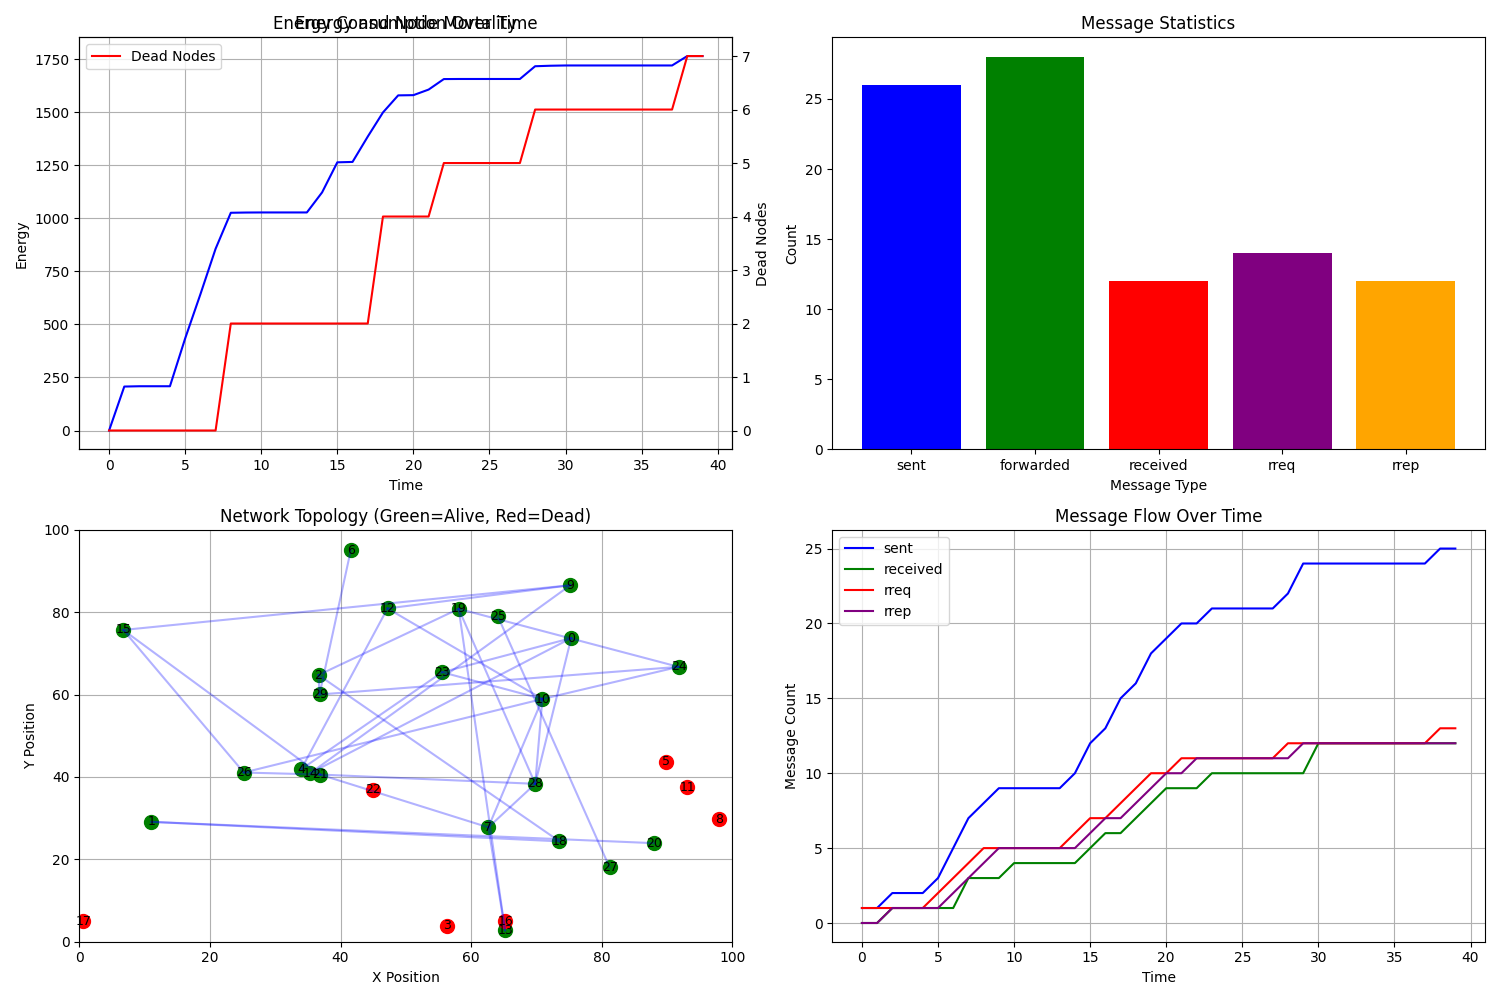
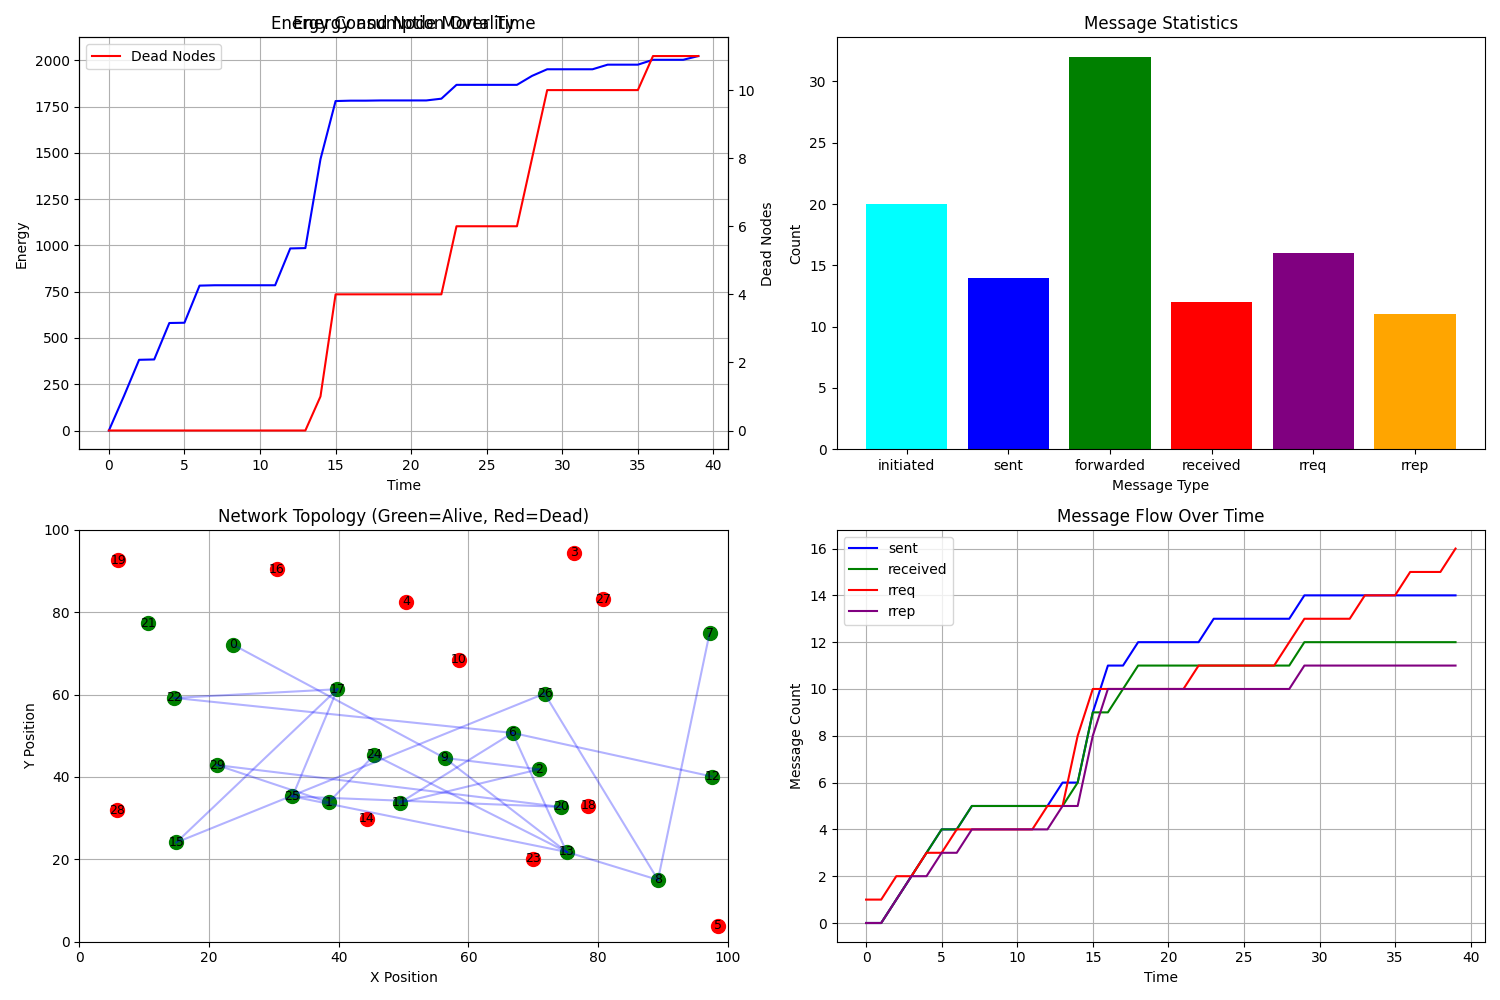
Implémentation TTL + Continué commentaires

diff --git a/Codes/Avec Métriques/aodv_test_script.py b/Codes/Avec Métriques/aodv_test_script.py
@@ -25,7 +25,7 @@ class Node:
         self.id = id
         self.pos = pos
         self.battery = initial_battery
-        self.routing_table = {}
+        self.routing_table = {} # dest : {next_hop,seq_num,weight,expiry}
         self.seq_num = 0
         self.pending = simpy.Store(env)
         self.max_dist = max_dist
@@ -34,7 +34,6 @@ class Node:
         self.seen = set()
         self.pending_rreqs = {}
         self.to_be_sent = defaultdict(list)
-        # print(f"Node {id} created at {pos} with battery {initial_battery}")
         self.env.process(self.process_messages())
 
     def process_messages(self):
@@ -63,7 +62,7 @@ class Node:
             src_id=self.id,
             src_seq=self.seq_num,
             dest_id=dest_id,
-            dest_seq=self.routing_table.get(dest_id, (None, 0, 0))[1],
+            dest_seq=self.routing_table.get(dest_id, (None, 0, 0, 0))[1],
             prev_hop=self.id,
             weight=0
         )
@@ -149,10 +148,10 @@ class Node:
         self.env.process(self.network.unicast_rrep(self, rrep))
 
     def update_route(self, dest, next_hop, seq_num, weight):
-        current = self.routing_table.get(dest, (None, -1, float('inf')))
+        current = self.routing_table.get(dest, (None, -1, float('inf'), 0))
         
         if (seq_num > current[1]) or (seq_num == current[1] and weight < current[2]): #si la route est plus fraiche ou aussi fraiche avec un poids moindre
-            self.routing_table[dest] = (next_hop, seq_num, weight)
+            self.routing_table[dest] = (next_hop, seq_num, weight, self.env.now + self.network.ttl)
 
     def collect_rreps(self, key):
         yield self.env.timeout(1)
@@ -163,16 +162,12 @@ class Node:
             self.send_rrep(best_rreq) #on envoie le meilleur
 
     def handle_data(self, data):
-        print(f"[{self.env.now:.4f}] Node {self.id} HANDLE_DATA from {data.src_id} to {data.dest_id}")
         if data.dest_id == self.id:
-            print("  I AM DESTINATION")
             self.network.messages_received += 1
         else:
-            print("  Forwarding DATA")
             self.env.process(self.network.forward_data(self, data))
 
     def send_data(self, dest_id):
-        print(f"[{self.env.now:.4f}] Node {self.id} SEND_DATA to {dest_id}")
         msg = Message(
             typ="DATA",
             src_id=self.id,
@@ -182,18 +177,19 @@ class Node:
             weight=-1,
             prev_hop=self.id,
         )
-        self.network.messages_sent += 1
-        
-        if dest_id in self.routing_table:
-            print(f"  Route exists, forwarding immediately")
+        self.network.messages_initiated += 1
+
+        if dest_id in self.routing_table and self.routing_table.get(msg.dest_id, (None, 0, 0, 0))[3] > self.env.now:
+            #si la route existe et est toujours valide ie si la date d'expiration n'est pas encore dépassée
+            self.network.messages_sent += 1
             self.env.process(self.network.forward_data(self, msg))
         else:
-            print(f"  No route, queuing and initiating RREQ")
+            #si route inexistante ou plus valide
             self.to_be_sent[dest_id].append(msg)
             self.init_rreq(dest_id)
 
 class Network:
-    def __init__(self, conso, seuil, coeff_dist, coeff_bat, coeff_conso, nb_nodes):
+    def __init__(self, conso, seuil, coeff_dist, coeff_bat, coeff_conso, nb_nodes, ttl):
         self.env = simpy.Environment()
         self.G = nx.Graph()
         self.conso = conso
@@ -201,6 +197,7 @@ class Network:
         self.coeff_dist = coeff_dist
         self.coeff_bat = coeff_bat
         self.coeff_conso = coeff_conso
+        self.ttl = ttl
         self.stop = False
         
         self.messages_forwarded = 0
@@ -290,8 +287,7 @@ class Network:
         
     def unicast_rrep(self, node, rrep):
         print(f"[{self.env.now:.4f}] UNICAST_RREP from {node.id} for dest {rrep.dest_id}")
-        route_entry = node.routing_table.get(rrep.dest_id, (None, 0, 0))
-        next_hop = route_entry[0]
+        next_hop = node.routing_table.get(rrep.dest_id, (None, 0, 0, 0))[0]
         print(f"  Next hop: {next_hop}")
         
         if next_hop is None:
@@ -328,7 +324,7 @@ class Network:
 
     def forward_data(self, node, data):
         print(f"[{self.env.now:.4f}] FORWARD_DATA from {node.id} to {data.dest_id}")
-        route_entry = node.routing_table.get(data.dest_id, (None, 0, 0))
+        route_entry = node.routing_table.get(data.dest_id, (None, 0, 0, 0))
         next_hop = route_entry[0]
         data.prev_hop = node.id
         print(f"  Next hop: {next_hop}")
@@ -380,7 +376,8 @@ class Simulation:
             coeff_dist=0.5,
             coeff_bat=0.5,
             coeff_conso=0.005,
-            nb_nodes=num_nodes
+            nb_nodes=num_nodes,
+            ttl= 10
         )
         
         self.node_positions = {}
@@ -462,6 +459,7 @@ class Simulation:
             self.messages_history['received'].append(self.net.messages_received)
             self.messages_history['rreq'].append(self.net.rreq_sent)
             self.messages_history['rrep'].append(self.net.rrep_sent)
+            self.messages_history['initiated'].append(self.net.messages_initiated)
             
             print(f"[{self.net.env.now:.2f}] MONITOR: "
                     f"Energy={self.net.energy_consumed:.2f}, "
@@ -526,15 +524,16 @@ class Simulation:
         
         # Message Types
         plt.subplot(2, 2, 2)
-        msg_types = ['sent', 'forwarded', 'received', 'rreq', 'rrep']
+        msg_types = ['initiated','sent', 'forwarded', 'received', 'rreq', 'rrep']
         counts = [
+            self.net.messages_initiated,
             self.net.messages_sent,
             self.net.messages_forwarded,
             self.net.messages_received,
             self.net.rreq_sent,
             self.net.rrep_sent
         ]
-        plt.bar(msg_types, counts, color=['blue', 'green', 'red', 'purple', 'orange'])
+        plt.bar(msg_types, counts, color=['cyan','blue', 'green', 'red', 'purple', 'orange'])
         plt.xlabel('Message Type')
         plt.ylabel('Count')
         plt.title('Message Statistics')
